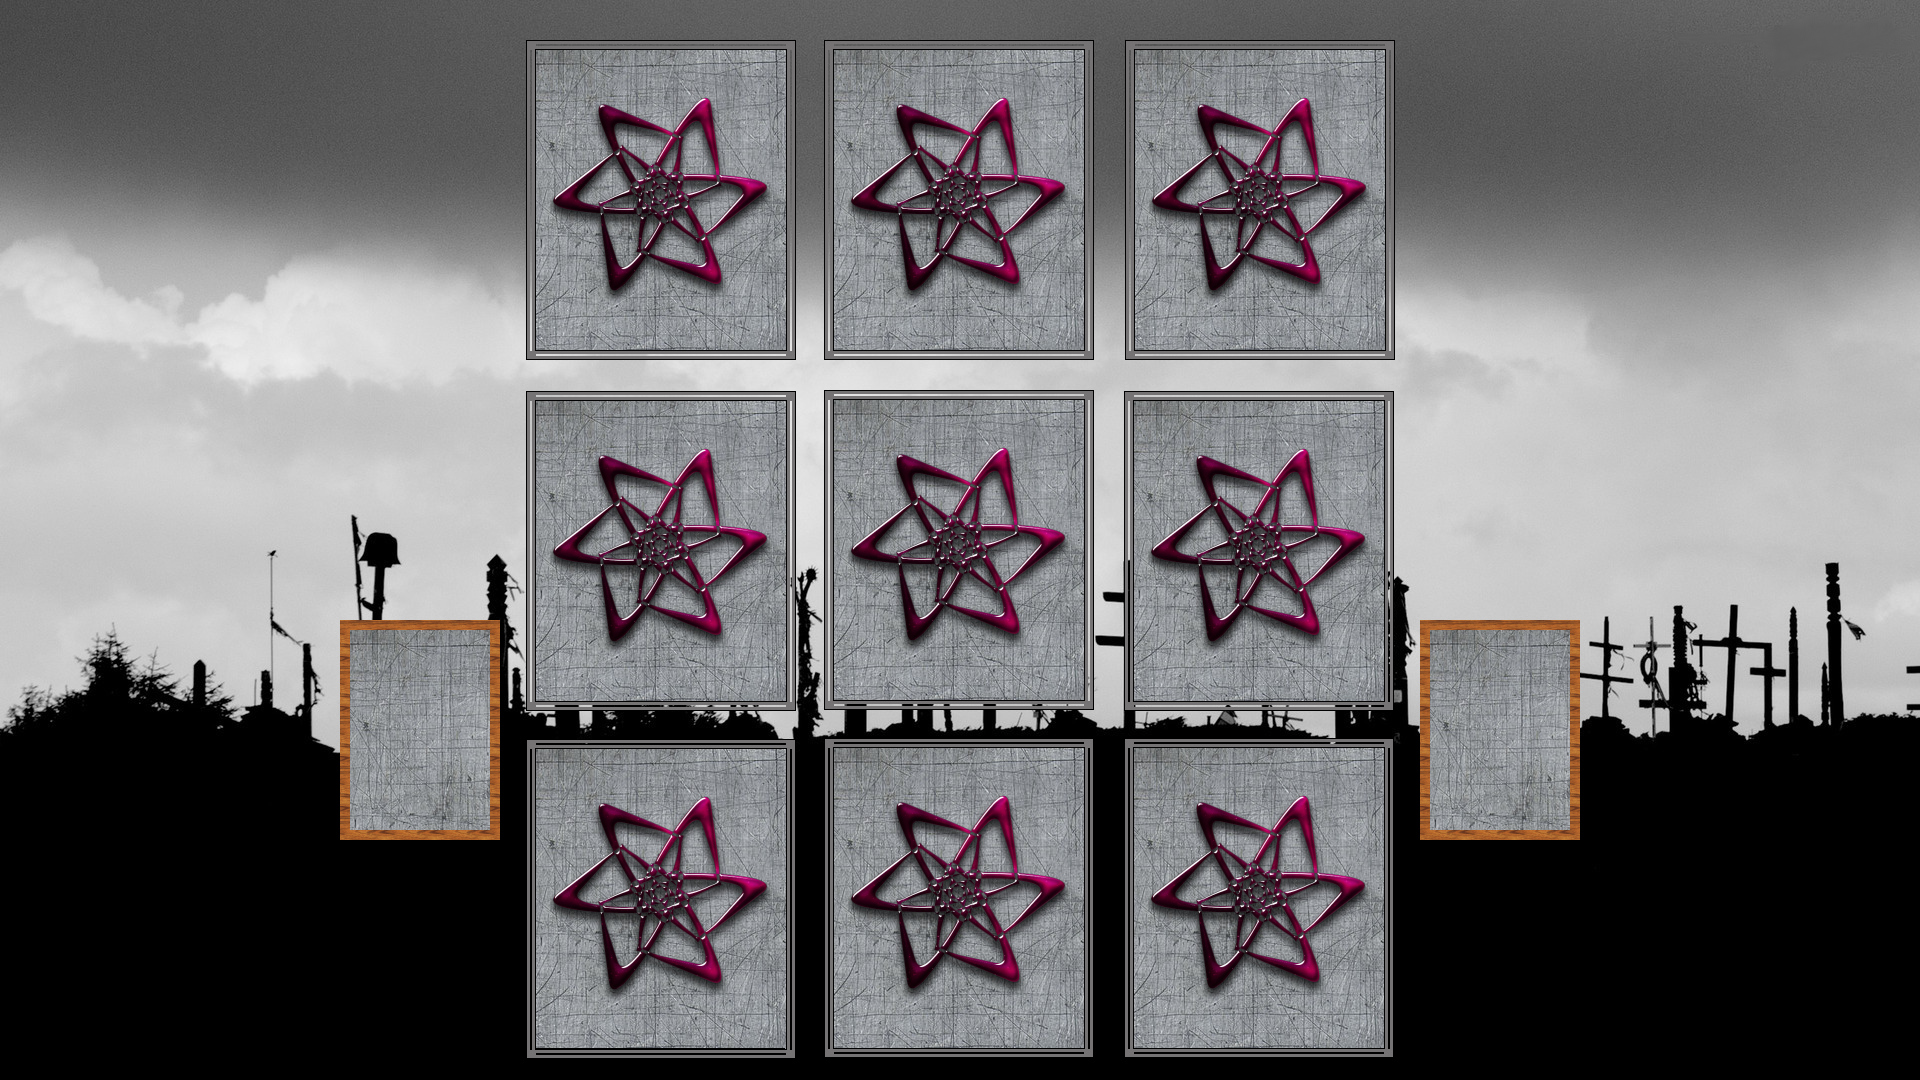
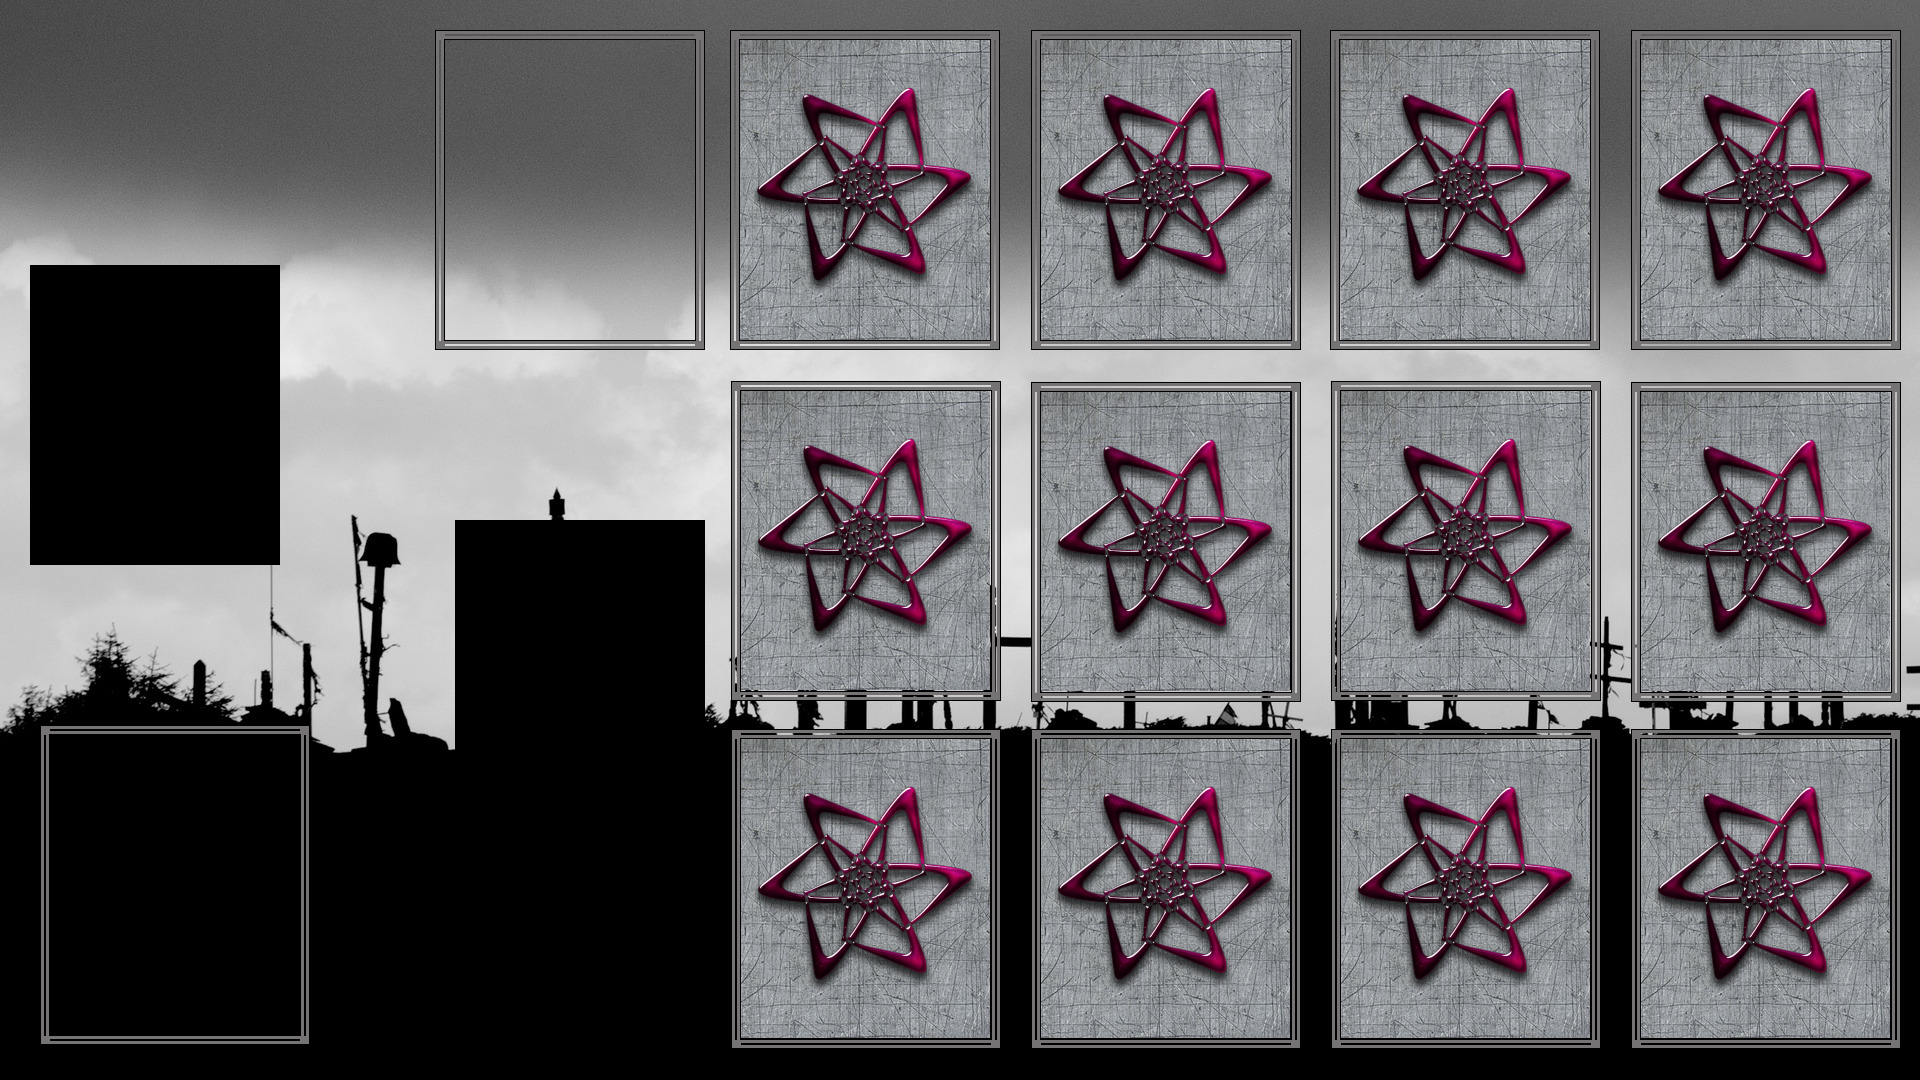
Added Another Card Column. Alter Board Graphics. Moved Sound (Still Not Fixed sf::Music error)

diff --git a/Game Project 1/BoardState.cpp b/Game Project 1/BoardState.cpp
@@ -4,8 +4,7 @@
 BoardState::BoardState(Game& ref)
 	:
 	mGameReference(ref),
-	mEnemy(ref),
-	mBatButton(mGameReference.GetCommonStore())
+	mEnemy(ref)
 {
 	/*Setup Background*/
 	mBackgroundFill.setFillColor(sf::Color::White);
@@ -16,12 +15,15 @@ BoardState::BoardState(Game& ref)
 	mSlots.push_back(A1);
 	mSlots.push_back(A2);
 	mSlots.push_back(A3);
+	mSlots.push_back(A4);
 	mSlots.push_back(B1);
 	mSlots.push_back(B2);
 	mSlots.push_back(B3);
+	mSlots.push_back(B4);
 	mSlots.push_back(C1);
 	mSlots.push_back(C2);
 	mSlots.push_back(C3);
+	mSlots.push_back(C4);
 }
 
 BoardState::~BoardState()
@@ -44,7 +46,7 @@ void BoardState::Initiate()
 		mInitiated = true;
 
 	/*Setup Enemy*/
-	mEnemy.Initiate(1620.0f, 700.0f, "Donald Trump");
+	mEnemy.Initiate(455.0f, 520.0f, "Donald Trump");
 	
 	/*Setup Text*/
 	mPlayerScoreText.setFont(mGameReference.GetCommonStore().GetFontRef("System"));
@@ -65,8 +67,13 @@ void BoardState::Initiate()
 
 	mSelectionBoarder.setTexture(mGameReference.GetCommonStore().GetTextureRef("SelectBoarder"));
 
-	mBatButton.Initiate(50, 370, "Deal Card", 22 , "BatButtons", 2, 180, 120);
-	mBatButton.AnimationToggle(true);
+	mTurnIndicator.setTexture(mGameReference.GetCommonStore().GetTextureRef("TurnIcons"));
+	mTurnIndicator.setPosition(278.0f, 405.0f);
+	mTurnIndicator.setTextureRect(sf::IntRect(173, 0, 173, 256));
+	// turn xy 173, 256
+	mDrawButton.setTexture(mGameReference.GetCommonStore().GetTextureRef("DrawButtons"));
+	mDrawButton.setPosition(265.0f, 40.0f); 
+	mDrawButton.setTextureRect(sf::IntRect(0, 0, 150, 60));
 }
 
 void BoardState::HandleInput()
@@ -75,30 +82,65 @@ void BoardState::HandleInput()
 
 void BoardState::Update(float dt)
 {
-	mBatButton.Update(dt);
-
 	/*Update Enemy*/
 	mEnemy.Update(dt);
 
 	/*Update Player*/
 	mGameReference.GetPlayer().Update(dt);
-	
 
+	if (mGameWinState == WinState::GameRunning)
+	{
+		if (mCurrentTurn == TurnState::PlayerTurn)
+		{
+			if (!mGameReference.GetPlayer().IsCardDrawn())
+			{
+				if (mDrawButton.getGlobalBounds().contains(sf::Mouse::getPosition().x, sf::Mouse::getPosition().y))
+				{
+					mDrawButton.setTextureRect(sf::IntRect(300, 0, 150, 60));
+				}
+				else
+				{
+					mDrawButton.setTextureRect(sf::IntRect(0, 0, 150, 60));
+				}
+			}
+			else
+			{
+				mDrawButton.setTextureRect(sf::IntRect(150, 0, 150, 60));
+			}
+
+		}
+		else if (mCurrentTurn == TurnState::EnemyTurn)
+		{
+			mDrawButton.setTextureRect(sf::IntRect(150, 0, 150, 60));
+		}
+	}
+	else
+	{
+		mDrawButton.setTextureRect(sf::IntRect(150, 0, 150, 60));
+	}
 	/*Countdown Enemy Turn*/
 	if (mIsTurning && mCurrentTurn == TurnState::EnemyTurn)
 	{
+		mTurnIndicator.setTextureRect(sf::IntRect(173, 0, 173, 256));
 		mIsTurning = false;
 		mCurrentTurn = TurnState::PlayerTurn;
 	}
 	else if (mIsTurning && mCurrentTurn == TurnState::PlayerTurn)
 	{
+		/*Turn Counter Increments*/
 		mTurnCounter += dt;
+		
+		/*Alter Objects During Enemy Turn Countdown*/
 		mEnemy.SetCardDrawn(true);
+		mDrawButton.setTextureRect(sf::IntRect(150, 0, 150, 60)); 
+		mTurnIndicator.setTextureRect(sf::IntRect(0, 0, 173, 256));
+
+		/*Execute Enemy Turn*/
 		if (mTurnCounter > mTurnWait)
 		{
+			mCurrentTurn = TurnState::EnemyTurn;
 			mIsTurning = false;
 			mTurnCounter = 0.0f;
-			mCurrentTurn = TurnState::EnemyTurn;
 			mEnemy.Turn(*this);
 		}
 	}
@@ -181,7 +223,8 @@ void BoardState::Draw()
 		}
 	}
 	
-	mBatButton.Draw(mGameReference.GetWindow());
+	mGameReference.GetWindow().draw(mTurnIndicator);
+	mGameReference.GetWindow().draw(mDrawButton);
 
 	for (iterator = mBoardCards.begin(), end = mBoardCards.end(); iterator != end; ++iterator)
 	{
@@ -189,8 +232,8 @@ void BoardState::Draw()
 	}
 
 	/*Draw Scores*/
-	mGameReference.GetWindow().draw(mPlayerScoreText);
-	mGameReference.GetWindow().draw(mEnemyScoreText);
+	//mGameReference.GetWindow().draw(mPlayerScoreText);
+	//mGameReference.GetWindow().draw(mEnemyScoreText);
 
 	/*Draw Player*/
 	mGameReference.GetPlayer().Draw();
@@ -241,7 +284,7 @@ void BoardState::HandleEvents(sf::Event & ev)
 			else
 			{
 				/*Check Click For Button*/
-				if (mBatButton.GetRectangle().contains(xX, yY) && !mGameReference.GetPlayer().IsCardDrawn())
+				if (mDrawButton.getGlobalBounds().contains(xX, yY) && !mGameReference.GetPlayer().IsCardDrawn())
 				{
 					mGameReference.GetPlayer().CycleDeck();
 				}

diff --git a/Game Project 1/BoardState.h b/Game Project 1/BoardState.h
@@ -3,7 +3,6 @@
 #include "Enemy.h"
 #include "Card.h"
 #include <memory>
-#include "UIButton.h"
 
 class BoardState :
 	public GameState
@@ -54,10 +53,10 @@ public:
 		Card* GetCardReference() { return mSlotsCard; }
 	private:
 		/*Constants*/
-		const float INITIAL_X_OFFSET = 535.0f;
-		const float INITIAL_X_OFFSET_FULL = 525.0f;
-		const float INITIAL_Y_OFFSET = 50.0f;
-		const float INITIAL_Y_OFFSET_FULL = 40.0f;
+		const float INITIAL_X_OFFSET = 740.0f;
+		const float INITIAL_X_OFFSET_FULL = 730.0f;
+		const float INITIAL_Y_OFFSET = 40.0f;
+		const float INITIAL_Y_OFFSET_FULL = 30.0f;
 		const float XINCREMENT = 300.0f;
 		const float YINCREMENT = 350.0f;
 		const float SLOTWIDTH = 250.0f;
@@ -89,7 +88,7 @@ public:
 	Slot& GetSlot(int x, int y);
 
 	/*Slots Wide and Deep*/
-	const int mWidth = 3;
+	const int mWidth = 4;
 	const int mHeight = 3;
 
 	/*Change Turn*/
@@ -122,7 +121,8 @@ private:
 	sf::RectangleShape mBackgroundFill;
 	sf::Sprite mBackgroundImage;
 	sf::Sprite mSelectionBoarder;
-	UIButton mBatButton;
+	sf::Sprite mTurnIndicator;
+	sf::Sprite mDrawButton;
 	int mPlayerScore = 0;
 	int mEnemyScore = 0;
 	sf::Text mPlayerScoreText;
@@ -141,12 +141,15 @@ private:
 	Slot A1 = { 0, 0 };
 	Slot A2 = { 1, 0 };
 	Slot A3 = { 2, 0 };
+	Slot A4 = { 3, 0 };
 	Slot B1 = { 0, 1 };
 	Slot B2 = { 1, 1 };
 	Slot B3 = { 2, 1 };
+	Slot B4 = { 3, 1 };
 	Slot C1 = { 0, 2 };
 	Slot C2 = { 1, 2 };
 	Slot C3 = { 2, 2 };
+	Slot C4 = { 3, 2 };
 
 	/*Boards Card List*/
 	std::vector<Card*> mBoardCards;

diff --git a/Game Project 1/Enemy.cpp b/Game Project 1/Enemy.cpp
@@ -265,10 +265,10 @@ void Enemy::Initiate(float x, float y,
 	mName.setFillColor(sf::Color::Black);
 	mName.setCharacterSize(18);
 	mName.setPosition(x + mName_XOffset, y + mName_YOffset);
-	AddCard(1520.0f, 150.0f, "Dragon", 3, 4, 3, 4);
-	AddCard(1520.0f, 150.0f, "Planet", 3, 4, 3, 4);
-	AddCard(1520.0f, 150.0f, "Gemini", 3, 4, 3, 4);
-	AddCard(1520.0f, 150.0f, "Roadie", 3, 4, 3, 4);
+	AddCard(50.0f, 735.0f, "Dragon", 3, 4, 3, 4);
+	AddCard(50.0f, 735.0f, "Planet", 3, 4, 3, 4);
+	AddCard(50.0f, 735.0f, "Gemini", 3, 4, 3, 4);
+	AddCard(50.0f, 735.0f, "Roadie", 3, 4, 3, 4);
 
 	/*Set Initial Top Card Position*/
 	CycleDeck();
@@ -281,21 +281,14 @@ void Enemy::Update(const float dt)
 
 void Enemy::Draw()
 {
+	/*Draw Profile Picture*/
 	mGameReference.GetWindow().draw(mSprite);
+
+	/*Draw Enemy Name*/
 	mGameReference.GetWindow().draw(mName);
 	
 	if (CardDeck.size() == 0)
 		return;
-
-	if (CardDeck.size() == 1 && !mCardIsDrawn)
-	{
-			mGameReference.GetWindow().draw(mCardBackSprite);
-	}
-	else if (CardDeck.size() > 1)
-	{
-		mGameReference.GetWindow().draw(mCardBackSprite);
-	}
-		
 
 	/*Draw Top Card*/
 	if (mCardIsDrawn)

diff --git a/Game Project 1/MainMenu.cpp b/Game Project 1/MainMenu.cpp
@@ -10,8 +10,9 @@ void MainMenu::Initiate()
 		mInitiated = true;
 
 	/*Setup Music*/
+	sf::Music mMenuMusic;
 	mMenuMusic.openFromFile("Media/MenuMusic.wav");
-	mMenuMusic.setLoop(true);
+	mMenuMusic.play();
 
 	/*Setup Sprites*/
 	mBackgroundImage.setTexture(mGameReference.GetCommonStore().GetTextureRef("MenuBackground"));
@@ -41,13 +42,7 @@ void MainMenu::HandleInput()
 
 void MainMenu::Update(float dt)
 {
-	if (!mMusicIsPlaying)
-	{
-		mMusicIsPlaying = true;
-		mMenuMusic.play();
-	}
-	else
-	{ }
+
 }
 
 void MainMenu::Draw()
@@ -108,9 +103,8 @@ void MainMenu::HandleEvents(sf::Event& ev)
 void MainMenu::mExit_StartNewGame()
 {
 	/*Initiate Player*/
-	mGameReference.GetPlayer().Initiate(50.0f, 700.0f, "CMDR Ayna P");
-	mMenuMusic.stop();
-	mMenuMusic.setLoop(false);
+	mGameReference.GetPlayer().Initiate(30.0f, 265.0f, "CMDR Ayna P");
+	
 	mGameReference.ChangeGameState(mGameReference.GetState_Board());
 }
 
@@ -121,6 +115,7 @@ MainMenu::MainMenu(Game& ref)
 	mLoadGame_Button(ref.GetCommonStore()),
 	mTutorialGame_Button(ref.GetCommonStore())
 {
+
 }
 
 

diff --git a/Game Project 1/game.cpp b/Game Project 1/game.cpp
@@ -4,7 +4,7 @@ using namespace sf;
 
 Game::Game()
 	:
-	mWindow(VideoMode(1920, 1080), "Card Battle"),
+	mWindow(sf::VideoMode(1920, 1080), "Battle Cards", sf::Style::Fullscreen),
 	mCommonStore(),
 	mStateManager(*this),
 	mState_BootLoad(*this),
@@ -12,7 +12,6 @@ Game::Game()
 	mState_MainMenu(*this),
 	mPlayer(*this)
 {
-
 	/*Load Common Textures*/
 	GetCommonStore().AddTexture("MenuBackground", "Media\\Background2.png");
 	GetCommonStore().AddTexture("BoardBackground", "Media\\Background1.png");
@@ -24,7 +23,8 @@ Game::Game()
 	GetCommonStore().AddTexture("SelectBoarder", "Media\\BoardSelect.png");
 	GetCommonStore().AddTexture("Logo", "Media\\Logo1.png");
 	GetCommonStore().AddTexture("CardBack", "Media\\CardBack.png");
-	GetCommonStore().AddTexture("BatButtons", "Media\\BatButtons.png");
+	GetCommonStore().AddTexture("DrawButtons", "Media\\DrawButtons.png");
+	GetCommonStore().AddTexture("TurnIcons", "Media\\TurnIcons.png");
 
 	/*Load Common Fonts*/
 	GetCommonStore().AddFont("System", "Media/font2.ttf");

diff --git a/Game Project 1/Player.cpp b/Game Project 1/Player.cpp
@@ -33,10 +33,10 @@ void Player::Initiate(float x, float y,
 	mCardBackSprite.setPosition(50.0f, 50.0f);
 
 	/*Create Player Cards*/
-	AddCard(250.0f, 150.0f, "P1", 5, 7, 3, 14);
-	AddCard(250.0f, 150.0f, "Hello", 15, 7, 2, 2);
-	AddCard(250.0f, 150.0f, "Card1", 2, 5, 13, 8);
-	AddCard(250.0f, 150.0f, "Owch", 1, 6, 9, 4);
+	AddCard(445.0f, 40.0f, "P1", 5, 7, 3, 14);
+	AddCard(445.0f, 40.0f, "Hello", 15, 7, 2, 2);
+	AddCard(445.0f, 40.0f, "Card1", 2, 5, 13, 8);
+	AddCard(445.0f, 40.0f, "Owch", 1, 6, 9, 4);
 }
 
 void Player::Update(const float dt)
@@ -54,16 +54,6 @@ void Player::Draw()
 	/*If No Cards In Deck Exit*/
 	if (CardDeck.size() == 0)
 		return;
-
-	/*Draw Card Back*/
-	if (CardDeck.size() == 1 && !mCardIsDrawn)
-	{
-			mGameReference.GetWindow().draw(mCardBackSprite);
-	}
-	else if (CardDeck.size() > 1)
-	{
-		mGameReference.GetWindow().draw(mCardBackSprite);
-	}
 
 	/*Draw Top Card*/
 	if(mCardIsDrawn)

diff --git a/Game Project 1/BootLoadState.cpp b/Game Project 1/BootLoadState.cpp
@@ -7,11 +7,11 @@ void BootLoadState::Initiate()
 	mText1.setFont(mGameReference.GetCommonStore().GetFontRef("System"));
 	mText1.setString("Loading Assets..");
 	mText1.setCharacterSize(24);
-	mText1.setPosition(sf::Vector2f(1920 / 2 - 100, 1080 / 2 - 300));
-
+	mText1.setPosition(sf::Vector2f(mGameReference.GetWindow().getSize().x / 2 - 100, mGameReference.GetWindow().getSize().y / 2 - 300));
+	
 	/*Setup Sprites*/
 	mCompanyIcon.setTexture(mGameReference.GetCommonStore().GetTextureRef("BootLoadImage"));
-	mCompanyIcon.setPosition(sf::Vector2f(1920 / 2 - 170, 1080 / 2 - 250));
+	mCompanyIcon.setPosition(sf::Vector2f(mGameReference.GetWindow().getSize().x / 2 - 170, mGameReference.GetWindow().getSize().y / 2 - 250));
 }
 
 void BootLoadState::HandleInput()

diff --git a/Game Project 1/MainMenu.h b/Game Project 1/MainMenu.h
@@ -25,7 +25,7 @@ private:
 	sf::RectangleShape mBackgroundFill;
 	sf::Sprite mBackgroundImage;
 	sf::Sprite mLogoImage;
-	sf::Music mMenuMusic;
+
 	bool mMusicIsPlaying = false;
 	UIButton mStartGame_Button;
 	UIButton mLoadGame_Button;

diff --git a/Game Project 1/UIButton.h b/Game Project 1/UIButton.h
@@ -43,6 +43,8 @@ public:
 	/*Toggle Animation*/
 	void AnimationToggle(bool val);
 
+	void SetFrame(const int f);
+
 private:
 	/*Common Texture Store Reference*/
 	CmnStore& mCmnStore;

diff --git a/Game Project 1/UIButton.cpp b/Game Project 1/UIButton.cpp
@@ -64,3 +64,8 @@ void UIButton::AnimationToggle(bool val)
 {
 	mAnimatedSprite->setAnimation(val);
 }
+
+void UIButton::SetFrame(const int f)
+{
+	mAnimatedSprite->setFrame(f);
+}
